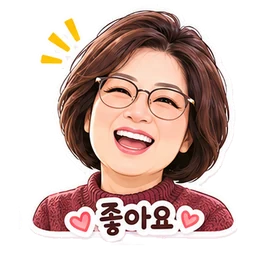
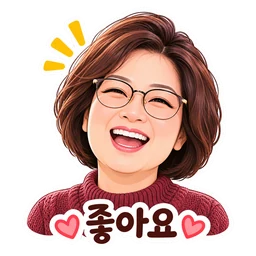
실비아2 이모티콘 12개 + 실비아 큰 그림으로 선명하게, 영상 꾸미기 손잡이를 바깥으로
Claude-Session: https://claude.ai/code/session_01GbN1M7j97vtSonwbPRfmsY

diff --git a/components/VideoOverlays.tsx b/components/VideoOverlays.tsx
@@ -1,6 +1,6 @@
 'use client';
 
-import { useRef, useState } from 'react';
+import { useLayoutEffect, useRef, useState } from 'react';
 import Icon from '@/components/Icon';
 import { clipText } from '@/lib/clip-text';
 
@@ -43,9 +43,36 @@ export function OverlayLayer({ overlays }: { overlays?: VideoOverlays | null }) 
   );
 }
 
+// ↻ 손잡이 자리: 글자·이모티콘 바깥 모서리 너머(겹치지 않게 — 루비로사 2026-11-03: '영상 꾸미기의 글자와 이모티콘도
+// 손잡이와 겹쳐 터치로 작업하기 어려워요', 예전엔 늘 오른쪽 아래 모서리에 걸쳐 작은 것은 손잡이 밑에 묻혔음).
+// 영상 칸 밖으로 나가 잘리면 왼쪽 아래·오른쪽 위·왼쪽 위 순으로 (돌린 각도 반영)
+const HANDLE_GAP = 20;  // 모서리에서 손잡이 가운데까지 (가로·세로 각각) — 손잡이 반지름 24px 보다 멀게
+const HANDLE_R = 24;
 function OverlayView({ item, selected, onHandleDown }: { item: OverlayItem; selected?: boolean; onHandleDown?: (e: React.PointerEvent) => void }) {
+  const ref = useRef<HTMLSpanElement>(null);
+  const [corner, setCorner] = useState<[number, number]>([1, 1]);
+  const editing = !!(selected && onHandleDown);
+  useLayoutEffect(() => {
+    const el = ref.current;
+    const box = el?.closest('[data-overlay-box]')?.getBoundingClientRect();
+    if (!editing || !el || !box) return;
+    const r = el.getBoundingClientRect();
+    const cx = r.left + r.width / 2, cy = r.top + r.height / 2;
+    const hw = el.offsetWidth / 2 + HANDLE_GAP, hh = el.offsetHeight / 2 + HANDLE_GAP;
+    const rad = ((item.rotation || 0) * Math.PI) / 180, cos = Math.cos(rad), sin = Math.sin(rad);
+    let best: [number, number] = [1, 1], bestRoom = -Infinity;
+    for (const [sx, sy] of [[1, 1], [-1, 1], [1, -1], [-1, -1]] as [number, number][]) {
+      const lx = sx * hw, ly = sy * hh;
+      const px = cx + lx * cos - ly * sin, py = cy + lx * sin + ly * cos;
+      const room = Math.min(px - box.left - HANDLE_R, box.right - HANDLE_R - px, py - box.top - HANDLE_R, box.bottom - HANDLE_R - py);
+      if (room >= 0) { best = [sx, sy]; bestRoom = room; break; }
+      if (room > bestRoom) { bestRoom = room; best = [sx, sy]; }
+    }
+    setCorner(prev => (prev[0] === best[0] && prev[1] === best[1] ? prev : best));
+  }, [editing, item.x, item.y, item.size, item.rotation, item.text, item.bg]);
   return (
     <span
+      ref={ref}
       className={`absolute whitespace-pre-wrap text-center font-bold leading-tight select-none ${item.type === 'text' && item.bg ? 'px-[0.35em] py-[0.15em] rounded-[0.3em]' : ''} ${selected ? 'outline outline-2 outline-dashed outline-white/90 outline-offset-4' : ''}`}
       style={{
         left: `${item.x * 100}%`,
@@ -59,12 +86,20 @@ function OverlayView({ item, selected, onHandleDown }: { item: OverlayItem; sele
       }}
     >
       {item.text}
-      {selected && onHandleDown && (
+      {/* 아주 작게 줄인 것도 손가락으로 잡기 쉽게 둘레를 넓힌 투명 칸 */}
+      {editing && <span aria-hidden="true" className="absolute -inset-3" />}
+      {editing && (
         // 한 손가락으로 끌면 돌리기 + 키우기 (55세 이상도 잘 보이고 누르기 쉽게 크게)
         <span
           onPointerDown={onHandleDown}
-          className="absolute -right-6 -bottom-6 w-12 h-12 rounded-full bg-[#e8b85a] text-[#101a3f] border-[3px] border-white shadow-[0_0_0_4px_rgba(232,184,90,0.35),0_4px_12px_rgba(0,0,0,0.5)] flex items-center justify-center font-black touch-none cursor-grab"
-          style={{ fontSize: 26, lineHeight: 1, transform: `rotate(${-(item.rotation || 0)}deg)` }}
+          data-handle=""
+          className="absolute w-12 h-12 rounded-full bg-[#e8b85a] text-[#101a3f] border-[3px] border-white shadow-[0_0_0_4px_rgba(232,184,90,0.35),0_4px_12px_rgba(0,0,0,0.5)] flex items-center justify-center font-black touch-none cursor-grab"
+          style={{
+            fontSize: 26, lineHeight: 1,
+            left: corner[0] > 0 ? `calc(100% + ${HANDLE_GAP}px)` : `-${HANDLE_GAP}px`,
+            top: corner[1] > 0 ? `calc(100% + ${HANDLE_GAP}px)` : `-${HANDLE_GAP}px`,
+            transform: `translate(-50%, -50%) rotate(${-(item.rotation || 0)}deg)`,
+          }}
           aria-label="돌리기·크기"
         >↻</span>
       )}
@@ -238,6 +273,7 @@ export default function VideoEditor({ src, initial, musicTitle, musicRange, onOp
       <div className="flex-1 flex items-center justify-center px-3 min-h-0">
         <div
           ref={boxRef}
+          data-overlay-box=""
           className="relative w-full max-w-sm aspect-[4/5] max-h-full bg-stone-900 rounded-xl overflow-hidden [container-type:inline-size] touch-none"
           onPointerMove={onPointerMove}
           onPointerUp={onPointerUp}

diff --git a/lib/stickers.ts b/lib/stickers.ts
@@ -1,4 +1,4 @@
-// 채팅 이모티콘 (1:1 메시지·단체 채팅방·사랑방): 캐릭터마다 24개 (public/stickers/<dir>/01~24.webp, 소화데레사2는 23개, 실비아는 16개)
+// 채팅 이모티콘 (1:1 메시지·단체 채팅방·사랑방): 캐릭터마다 24개 (public/stickers/<dir>/01~24.webp, 소화데레사2는 23개, 실비아는 16개, 실비아2는 12개)
 //  - 아멘이(양) · 몽글이(구름) · 딩동이(종) · 루(초) · 신부님·신부님2·신부님3(관리자 전용) · 루비로사(루비로사 선물) · 엘리스텔라·양양세라피나·쁘띠비비·귀여운세실리아·율리T·소화데레사1·2·쁘띠비비2(각자 선물)
 // 메시지 글로는 '[아멘이] 안녕!' 처럼 보낸다 — 예전 앱·휴대폰 알림·대화 목록에서도 뜻이 보이고,
 // 이 글과 똑같으면 말풍선 대신 이모티콘 그림으로 보여 준다. (처음 보낸 양 이모티콘 '[양 이모티콘] …'도 아멘이로 읽음)
@@ -94,6 +94,12 @@ const SILVIA = [
   '고마워요', '최고!', '브이!', '기도할게요',
   '박수', '생각중', '부끄', '파이팅!',
 ];
+// 실비아2 (운영자가 준 4칸×3줄 판 — 사진처럼 그린 그림, 판에 적힌 글 그대로 판 순서대로 12개)
+const SILVIA2 = [
+  '반가워요!', '감사해요', '최고!', '어머!',
+  'ㅋㅋㅋ', '고민중', '졸려요', '부끄',
+  '속상해요', '버럭!', '짝짝짝', '힘내세요!',
+];
 // 신부님2·3 (관리자 전용, 운영자가 준 6칸×4줄 판 두 장 — 판에 적힌 글 그대로 판 순서대로, 신부님3 의 3번째는 글 없이 두 주먹 '화이팅!')
 const FATHER2 = [
   '어서오세요!', '평화가 함께하길', '좋은 생각이에요!', '맞아요!', '멋져요!', '고마워요!',
@@ -148,6 +154,8 @@ const PACK_DEFS: { id: string; name: string; dir: string; labels: string[]; lega
   { id: 'justina', name: '마리유스티나', dir: 'justina', labels: JUSTINA, access: 'gift', giftHandles: [] },
   // 실비아 (운영자 요청 2026-11-03, 선물용) — 관리자가 프로필 카드·사연함 '🎁'로 선물
   { id: 'silvia', name: '실비아', dir: 'silvia', labels: SILVIA, access: 'gift', giftHandles: [] },
+  // 실비아2 (운영자 요청 2026-11-03, 선물용) — 실비아와 따로 선물 (프로필 카드·사연함 '🎁')
+  { id: 'silvia2', name: '실비아2', dir: 'silvia2', labels: SILVIA2, access: 'gift', giftHandles: [] },
 ];
 
 export const STICKER_PACKS: StickerPack[] = PACK_DEFS.map(p => ({
@@ -203,6 +211,11 @@ export const giftablePacks = () => STICKER_PACKS.filter(p => !!p.access);
 
 // 글을 치면 비슷한 뜻의 이모티콘을 추천: 이모티콘 이름마다 떠올릴 만한 말 (띄어쓰기 없이 비교)
 const KEYWORDS: Record<string, string[]> = {
+  // 실비아2 새 말
+  '고민중': ['고민', '생각', '글쎄', '어떡하지', '어쩌지'],
+  '졸려요': ['졸려', '졸리', '피곤', '하품', '잘자', '자러', '잠와'],
+  '버럭!': ['버럭', '화나', '화났', '짜증', '열받'],
+  '짝짝짝': ['짝짝', '박수', '축하', '대단', '잘했', '훌륭'],
   // 실비아 새 말
   '깜짝!': ['깜짝', '놀랐', '놀라', '헉', '헐', '세상에', '어머'],
   '감동': ['감동', '울컥', '뭉클', '눈물'],

diff --git a/CLAUDE.md b/CLAUDE.md
@@ -207,6 +207,8 @@
 - 글 고르기 막대 모양을 앱과 같게(운영자 2026-11-03: '복사, 사진 복사 등 이미지가 우리 어플의 이미지와 통일성 있도록'): 검은 막대·흰 글자 → 흰 카드(테두리·은은한 그림자, 화면 색을 따라감) + 기도·공감·댓글 단추처럼 연한 색 동그라미 안의 아이콘(`IconBadge` — 글 복사 `copy` 하늘색·글만 사진으로 `image` 금색, lg), 왼쪽 '이 글 / 전체' 두 줄 + 가는 세로줄. 360px 에서도 한 줄(16~344px), 차콜 화면 확인
 - 글 고르기 막대가 휴대폰 복사 메뉴와 겹치던 문제(운영자 2026-11-03, 루비로사 휴대폰 화면: 크게 보기에서 글을 고르니 휴대폰의 '복사·모두 선택·웹 검색·공유' 메뉴와 우리 막대가 같은 자리에 겹쳐 '창이 이중으로 떠'): 휴대폰 메뉴는 고른 글 바로 위(자리가 없으면 아래, 둘 다 없으면 가운데)에 뜨므로 그 높이를 짐작해(`lib/select-scope` `barPlace` — 고른 범위 `getBoundingClientRect`, 메뉴 자리 90px) 화면의 반대쪽에 막대: 메뉴가 화면 아래 절반이면 막대는 위(머리줄 바로 아래 `top 4.5rem`), 위 절반이면 아래(아래 탭 위). `useSelectScope()`는 이제 `{ id, place }`, 고른 채로 스크롤하면(캡처 scroll, rAF) 다시 정함. Playwright: 글이 화면 위쪽(y 434/1000) → 막대 아래, 아래쪽(y 836/800) → 막대 위
 - 사진 효과의 ↻ 손잡이가 작은 모자이크 동그라미를 덮던 문제(루비로사 2026-11-03: '모자이크 처리하는 동그라미와 화살표 동그라미가 겹쳐서 터치로 작업하기 어려워요'): 손잡이가 늘 붙인 것의 오른쪽 아래 모서리에 걸쳐 있어(44px) 작게 줄인 것은 손잡이 밑에 묻혔음 → `components/PhotoEditor` `handleSpot`: 손잡이를 붙인 것 바깥에(모자이크 동그라미는 둘레에서 8px, 이모티콘·그림 문자 네모는 모서리 밖) 두고, 사진 칸 밖으로 나가 잘리면 왼쪽 아래·오른쪽 위·왼쪽 위 순으로 옮김(돌린 각도 반영). 48px 보다 작은 것은 둘레를 넓힌 투명 칸으로 손가락에 잘 잡히게. Playwright: 가장 작게(반지름 9px)도 손잡이와 8px 틈, 오른쪽 아래 끝으로 옮기면 손잡이가 왼쪽 위로
+- 실비아2 전용 이모티콘 + 실비아 선명하게(운영자 요청 2026-11-03): ① 새 팩 `silvia2`('실비아2', `public/stickers/silvia2/01~12.webp`, 사진처럼 그린 4칸×3줄 판, 판 순서 `SILVIA2`: 반가워요!·감사해요·최고!·어머!·ㅋㅋㅋ·고민중·졸려요·부끄·속상해요·버럭!·짝짝짝·힘내세요!, 새 말은 `KEYWORDS`에 추천 말 추가). 실비아와 같은 말이 있어(최고!·부끄·속상해요) 한 팩으로 합치지 않고 따로 — `access: 'gift'`, `giftHandles: []` → 관리자가 프로필 카드·사연함 '🎁'로 따로 선물(받으면 선물 상자 '‘실비아2’ 이모티콘 12개'). 판 자르기 `scratchpad/cut/slice15.py`: 바탕이 흐린 사진이라 색으로 못 지움 → 흰 오려 낸 테두리(밝기 214↑·색 차 28↓)를 벽으로 보고 판 가장자리에서 벽을 넘지 않고 닿는 곳 = 바탕(벽 두께 `WALL` 5, 테두리가 흐린 '최고!'만 7 — 7 이상은 이웃 스티커끼리 붙음), 덩어리는 무게 중심이 있는 칸으로, 벽 두께만큼 + 1px 깎아 바깥 빛 번짐을 덜어 냄 ② 운영자가 따로 준 큰 그림(1254px, 투명 바탕) 10장으로 '실비아' 01~10(안녕하세요·좋아요·사랑해요·깜짝!·감동·속상해요·화났어요·삐졌어요·고마워요·최고!)을 바꿈 — 글자가 크고 선명함, 테두리 둘레 흰 티끌은 가장 큰 덩어리만 남겨 지움(`scratchpad/cut/hd16.py`). 11~16 은 판에서 자른 그대로
+- 영상 꾸미기 ↻ 손잡이도 글자·이모티콘 바깥으로(루비로사 2026-11-03: '영상꾸미기에 있는 글자와 이모티콘도 같은 불편함'): `components/VideoOverlays` `OverlayView` — 손잡이를 글자·이모티콘 모서리 너머 20px(가로·세로)에 두고(예전 `-right-6 -bottom-6` 은 모서리에 걸쳐 작은 것을 덮음), 영상 칸(`data-overlay-box`) 밖으로 나가면 왼쪽 아래·오른쪽 위·왼쪽 위 순으로(돌린 각도 반영, 그려 본 뒤 재서 `useLayoutEffect`), 고른 것은 둘레 12px 투명 칸으로 잡기 쉽게. Playwright(webm 영상 — 시험 크롬은 mp4 를 못 읽음): 가장 작은 이모티콘(23px)도 손잡이와 안 겹침, 오른쪽 아래 끝으로 옮기면 손잡이가 왼쪽 위로
 ## Android 앱 (Google Play) 진행 상황
 - 패키지 `com.catholicgram.android` (PWABuilder TWA). 예전 초안 앱 `com.catholicgram.app`은 쓰지 않음
 - 2026-10-27: 비공개 테스트(Alpha) 1 (1.0.0.0) + 대한민국 + 테스터 이메일 목록 '테스터'(12명)로 **검토 제출함**. Play Console 아동 안전 표준 선언 URL은 `https://catholicgram-dey7.vercel.app/child-safety`
